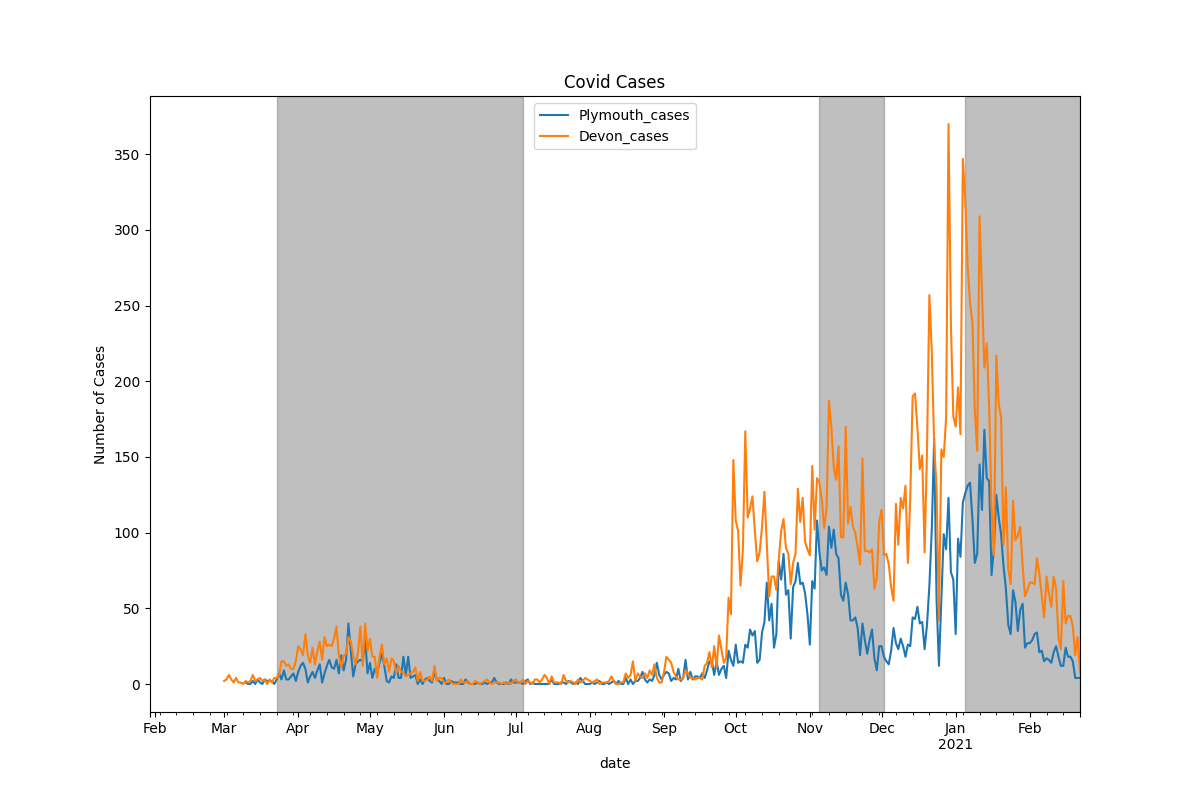
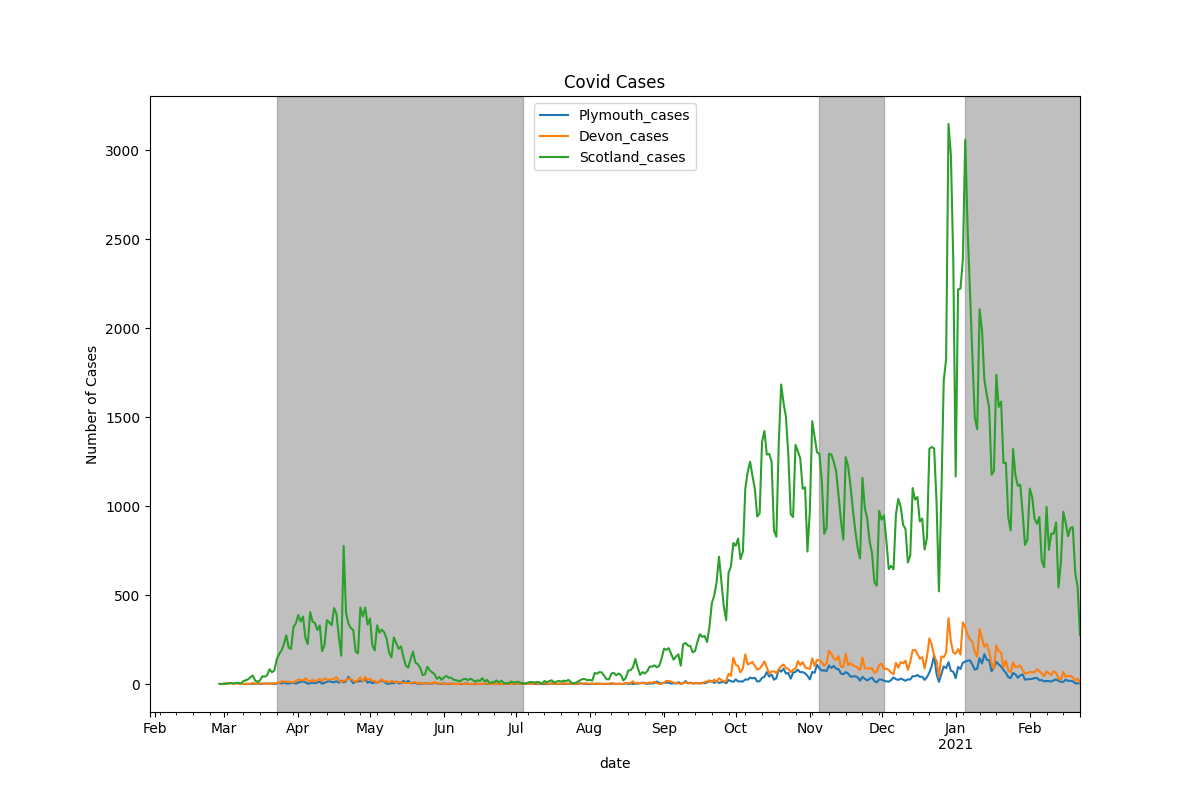
update-data

diff --git a/main.py b/main.py
@@ -13,7 +13,7 @@ import datetime
 url = {}
 population = {}
 
-lockdowns = [(datetime.date(2021,1,5),datetime.date(2021,2,22)), (datetime.date(2020,11,5),datetime.date(2020,12,2)), (datetime.date(2020,3,23),datetime.date(2020,7,4))]
+lockdowns = [(datetime.date(2021,1,5),datetime.date(2021,4,12)), (datetime.date(2020,11,5),datetime.date(2020,12,2)), (datetime.date(2020,3,23),datetime.date(2020,7,4))]
 verbose = False
 
 
@@ -21,7 +21,7 @@ def init_urls():
 	url['Plymouth'] = 'https://api.coronavirus.data.gov.uk/v1/data?filters=areaType=utla;areaName=Plymouth&structure=%7B%22areaType%22:%22areaType%22,%22areaName%22:%22areaName%22,%22areaCode%22:%22areaCode%22,%22date%22:%22date%22,%22newCasesBySpecimenDate%22:%22newCasesBySpecimenDate%22,%22cumCasesBySpecimenDate%22:%22cumCasesBySpecimenDate%22%7D&format=json'
 	url['Devon'] = 'https://api.coronavirus.data.gov.uk/v1/data?filters=areaType=utla;areaName=Devon&structure=%7B%22areaType%22:%22areaType%22,%22areaName%22:%22areaName%22,%22areaCode%22:%22areaCode%22,%22date%22:%22date%22,%22newCasesBySpecimenDate%22:%22newCasesBySpecimenDate%22,%22cumCasesBySpecimenDate%22:%22cumCasesBySpecimenDate%22%7D&format=json'
 	url['England'] = 'https://api.coronavirus.data.gov.uk/v1/data?filters=areaType=nation;areaName=England&structure=%7B%22areaType%22:%22areaType%22,%22areaName%22:%22areaName%22,%22areaCode%22:%22areaCode%22,%22date%22:%22date%22,%22newCasesBySpecimenDate%22:%22newCasesBySpecimenDate%22,%22cumCasesBySpecimenDate%22:%22cumCasesBySpecimenDate%22%7D&format=json'
-	# url['Scotland'] = 'https://api.coronavirus.data.gov.uk/v1/data?filters=areaType=nation;areaName=Scotland&structure=%7B%22areaType%22:%22areaType%22,%22areaName%22:%22areaName%22,%22areaCode%22:%22areaCode%22,%22date%22:%22date%22,%22newCasesBySpecimenDate%22:%22newCasesBySpecimenDate%22,%22cumCasesBySpecimenDate%22:%22cumCasesBySpecimenDate%22%7D&format=json'
+	url['Scotland'] = 'https://api.coronavirus.data.gov.uk/v1/data?filters=areaType=nation;areaName=Scotland&structure=%7B%22areaType%22:%22areaType%22,%22areaName%22:%22areaName%22,%22areaCode%22:%22areaCode%22,%22date%22:%22date%22,%22newCasesBySpecimenDate%22:%22newCasesBySpecimenDate%22,%22cumCasesBySpecimenDate%22:%22cumCasesBySpecimenDate%22%7D&format=json'
 	# url['London'] = 'https://api.coronavirus.data.gov.uk/v1/data?filters=areaType=region;areaName=London&structure=%7B%22areaType%22:%22areaType%22,%22areaName%22:%22areaName%22,%22areaCode%22:%22areaCode%22,%22date%22:%22date%22,%22newCasesBySpecimenDate%22:%22newCasesBySpecimenDate%22,%22cumCasesBySpecimenDate%22:%22cumCasesBySpecimenDate%22%7D&format=json'
 
 	population['Plymouth'] = 264200
